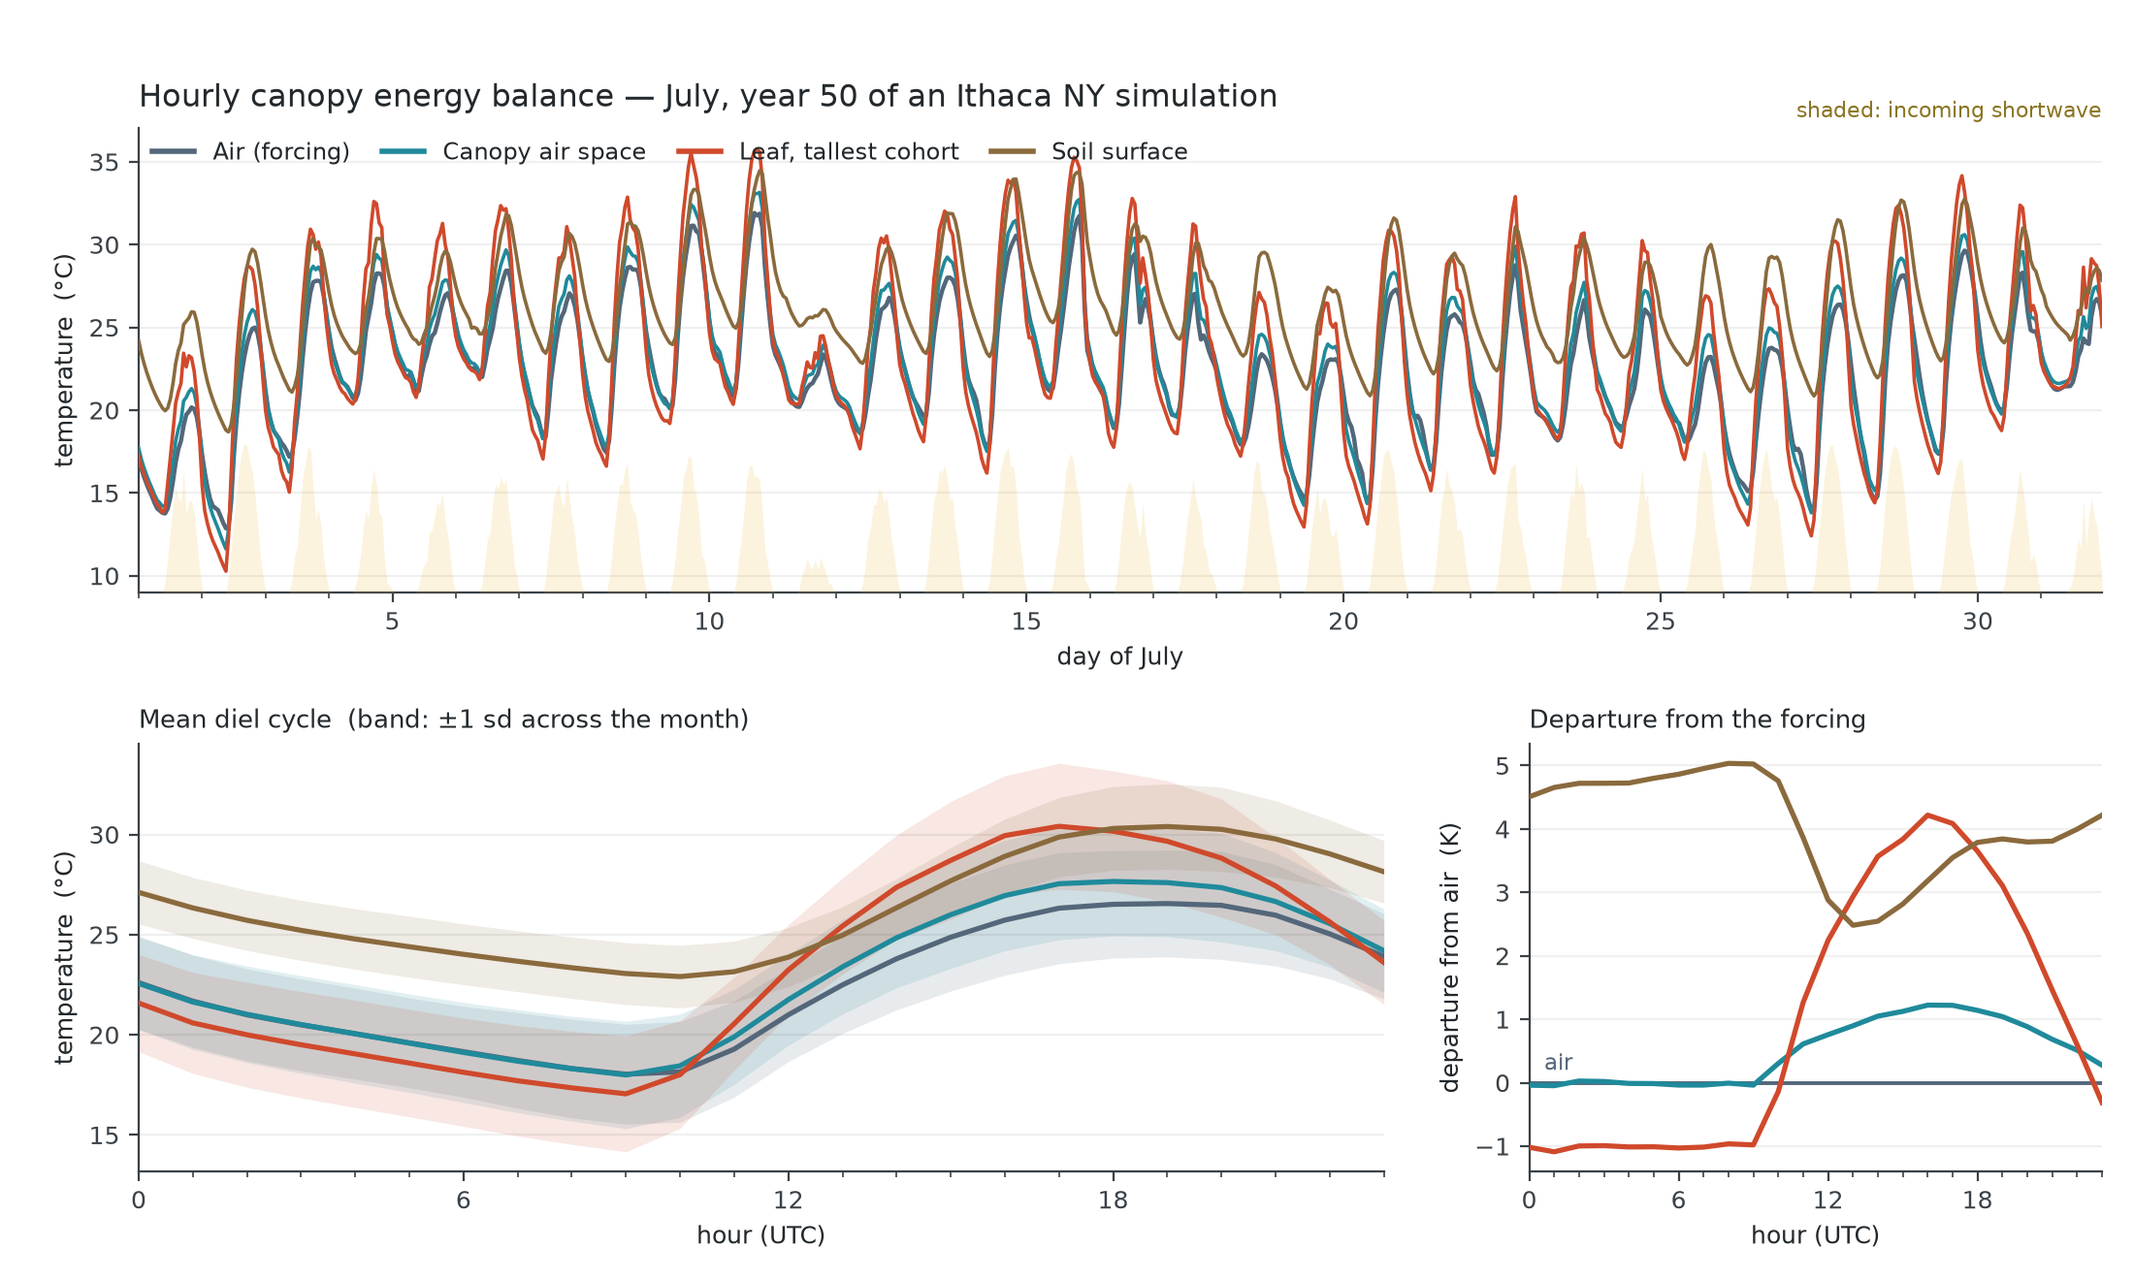
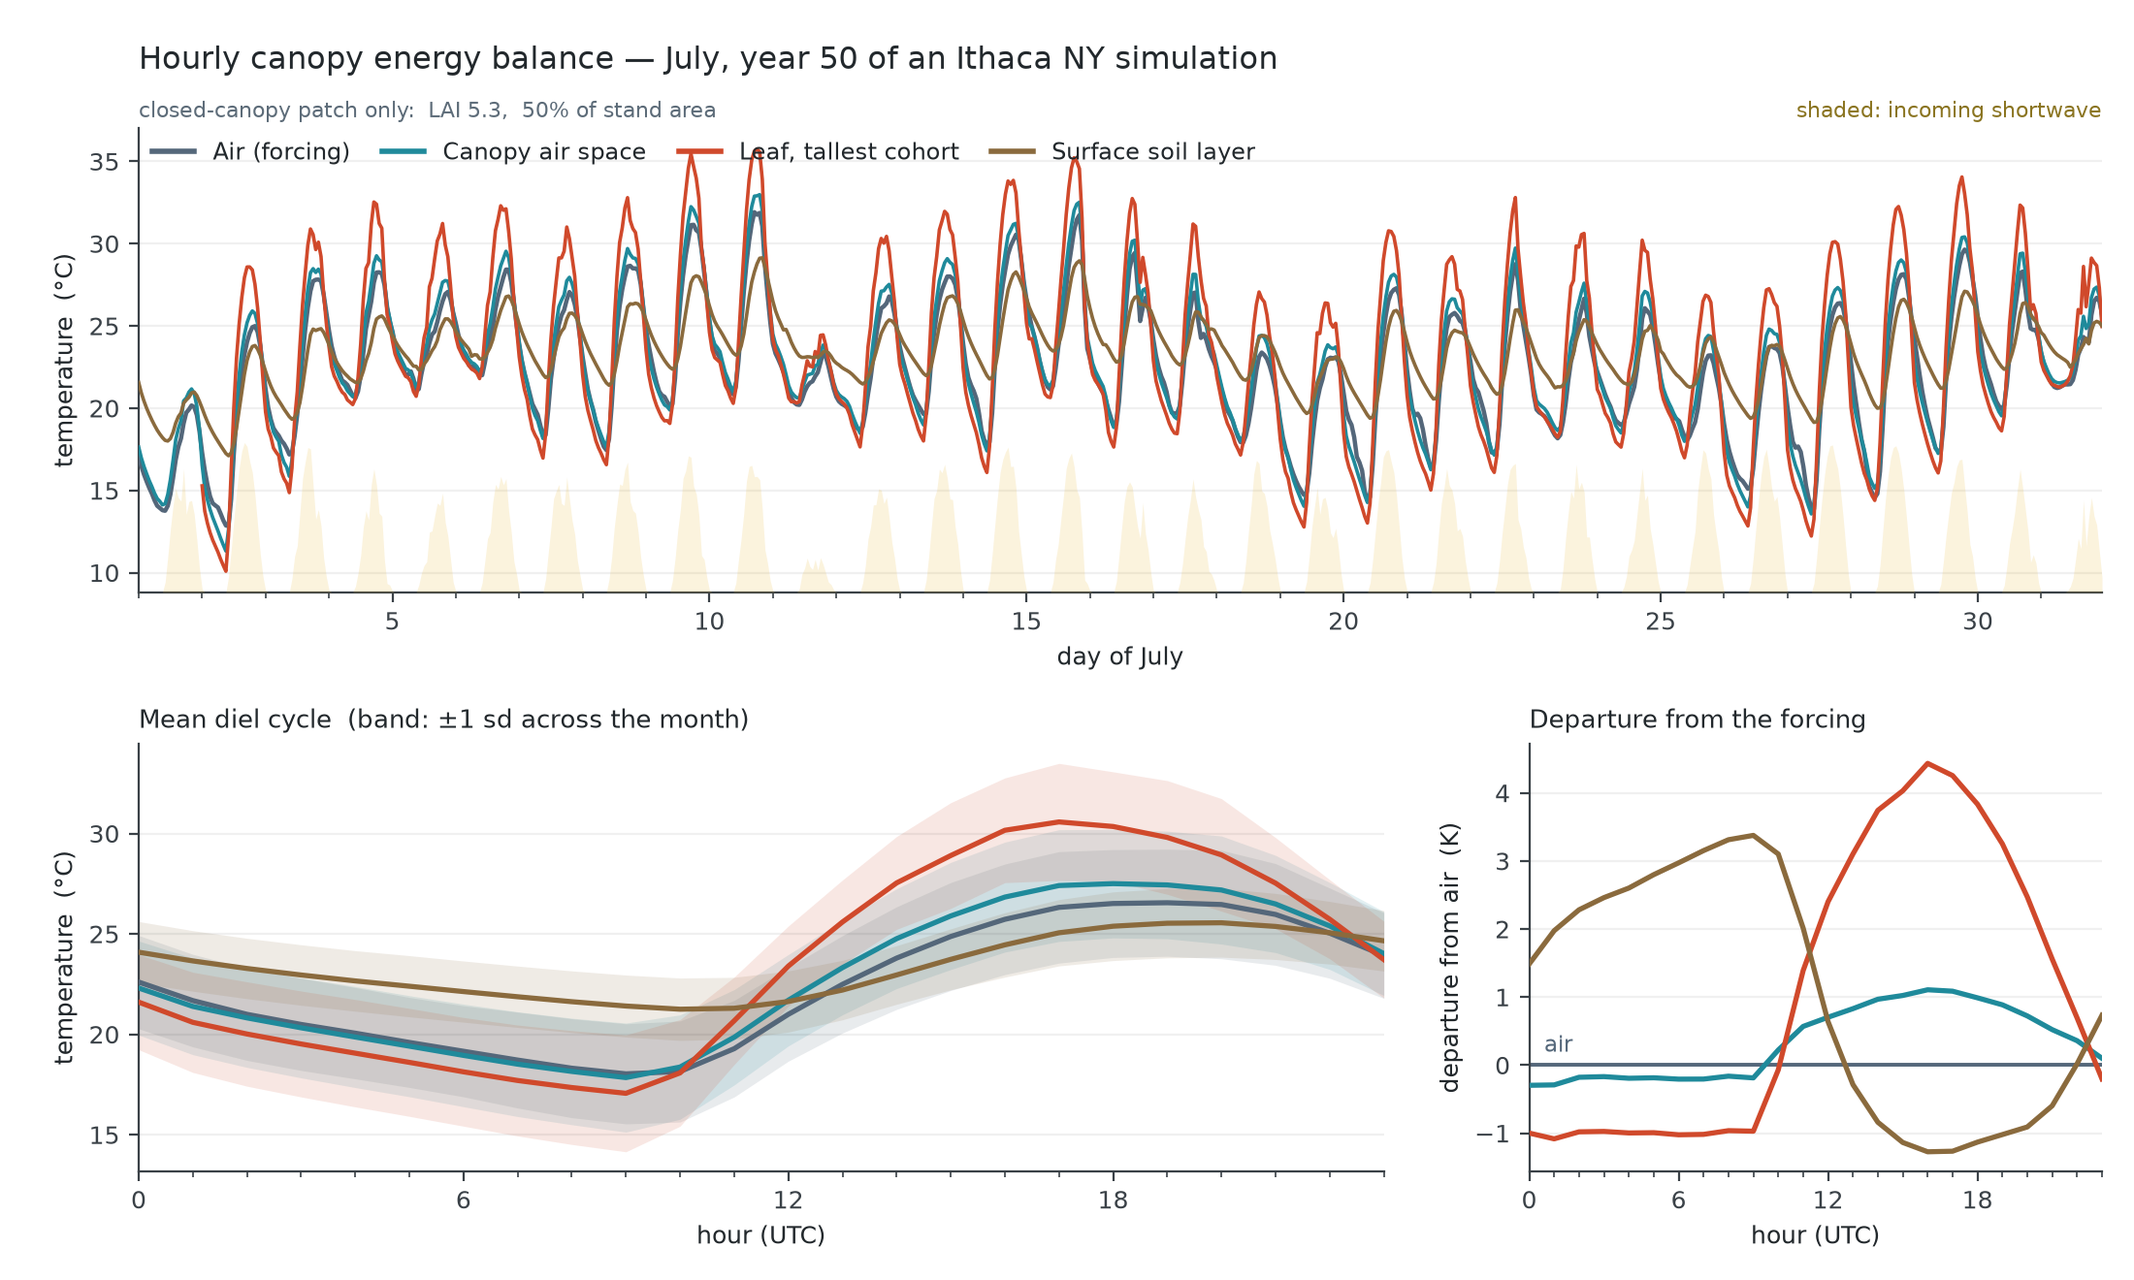
examples(biophysics): plot the closed-canopy patch, not a site mean across a gap
The temperature figure read site-mean FAST-tier scalars. This stand carries a
disturbance gap: patch LAI spans 0.64 to 5.36, and the gap -- 21% of the area,
passing ~70% of incident shortwave straight to the ground -- behaves like bare
soil and runs more than 10 K above air at midday. It supplies about 70% of the
site-mean soil warm anomaly on its own, so the site-mean curve described no part
of the forest: it was an average of a shaded floor and a sunlit clearing.

The figure now selects the patch with the highest July-mean LAI (here LAI 5.34,
49.7% of area) and plots only that. Under a closed canopy the surface soil layer
behaves as it should -- it sits near the DAILY MEAN air temperature, 1.27 K below
air by day and 3.38 K above it at night, with a 4.30 K diurnal swing against the
air's 8.52 K. That signal was invisible in the site mean.

Per-patch sub-daily temperatures come from the opt-in [fast].fast_probe CSV: the
FAST netCDF tier is staged as a site mean, and the probe is the only per-patch
sub-daily record. It is written into out/ with the netCDF and needs n_threads = 1.
The daily tier is enabled to carry lai_patch (the selector) and
cohort_offset/cohort_count, which let the leaf curve stay "tallest cohort in THIS
patch" rather than silently becoming the tallest in the stand. The probe's own
leaf_temp column is an unweighted cohort mean and is deliberately not used.

The soil series is relabelled "Surface soil layer" throughout, from "Soil
[…]

diff --git a/examples/example_biophysics/plot_biophysics.py b/examples/example_biophysics/plot_biophysics.py
@@ -1,20 +1,33 @@
 #!/usr/bin/env python3
-"""Highlight figure for MEDS' fast (sub-daily) biophysics.
+"""Highlight figure for MEDS' fast (sub-daily) biophysics, for ONE closed-canopy patch.
 
-Reads the hourly FAST-tier output written by ``meds_config_july.toml`` and plots the four
-temperatures that define the canopy energy balance, over one July at 1 h resolution:
+Plots the four temperatures that define the canopy energy balance over one July at 1 h
+resolution:
 
-  * air            -- above-canopy air temperature, straight from the met forcing (the boundary
-                      condition; every other curve is something MEDS solved for)
-  * canopy air     -- the prognostic canopy-air-space (CAS) temperature
-  * leaf (tallest) -- leaf temperature of the tallest cohort, i.e. the sunlit upper canopy
-  * soil surface   -- top soil-layer temperature
+  * air                 -- above-canopy air temperature, straight from the met forcing (the
+                           boundary condition; every other curve is something MEDS solved for)
+  * canopy air          -- the prognostic canopy-air-space (CAS) temperature
+  * leaf (tallest)      -- leaf temperature of the tallest cohort, i.e. the sunlit upper canopy
+  * surface soil layer  -- temperature of the TOP SOIL LAYER (node at ~1.8 cm, 0-4 cm thick).
+                           This is a soil temperature, not a skin or litter temperature.
+
+ONE PATCH, NOT THE SITE MEAN. The stand carries a disturbance gap alongside its closed canopy --
+patch LAI here spans 0.6 to 5.4 -- and a site mean across that is an average of a shaded forest
+floor and a sunlit clearing, which is not a state any part of the forest is in. The gap alone
+contributes ~70% of the site-mean soil warm anomaly from ~20% of the area. So the figure selects
+the patch with the highest leaf area index and plots only that, which is the case the eye is
+being invited to read.
+
+Per-patch sub-daily temperatures come from the opt-in ``[fast].fast_probe`` CSV, because the FAST
+netCDF tier is staged as a site mean. The daily tier supplies ``lai_patch`` (which patch to pick)
+and ``cohort_offset``/``cohort_count`` (which cohorts are in it, for the leaf curve).
 
 The point of the figure is that the three solved temperatures separate from the forcing in
 *different* directions and with *different* phase: sunlit leaves run above air by day and below it
 at night (radiative coupling plus transpirational cooling), the canopy air space sits between leaf
-and soil, and the soil surface is damped and lagged by its heat capacity. Reproducing that
-structure from a met file is the whole job of the fast loop.
+and soil, and the surface soil layer is damped and lagged by its heat capacity -- under a closed
+canopy it tracks the DAILY MEAN air temperature, running below air by day and above it at night.
+Reproducing that structure from a met file is the whole job of the fast loop.
 
 Usage
 -----
@@ -47,6 +60,8 @@ from matplotlib.ticker import MultipleLocator
 
 HERE = os.path.dirname(os.path.abspath(__file__))
 PATTERN = os.path.join(HERE, "out", "july-F-2074*.nc")
+DAILY = os.path.join(HERE, "out", "july-D-207407.nc")
+PROBE = os.path.join(HERE, "out", "fast_probe.csv")
 OUTPNG = os.path.join(HERE, "biophysics_july.png")
 
 # One colour per store, chosen so the three solved temperatures read as a family against the
@@ -58,48 +73,93 @@ C_SOIL = "#8a6a3d"
 C_SW = "#e8b52f"
 
 
-def load(pattern: str) -> dict[str, np.ndarray]:
-    """Concatenate the per-day FAST files into flat hourly arrays."""
+def pick_patch(daily: str):
+    """Return (patch_index, mean LAI, mean area, per-day cohort slice) for the closed-canopy patch.
+
+    Selected on mean July leaf area index, not on area: the question the figure answers is what a
+    SHADED forest floor does, so the most-shaded patch is the right one even if it is not the
+    largest. Cohort ranges are read per day because fusion and fission can move them within the
+    month; `cohort_offset` is 1-based (Fortran), so it is shifted here once and only here.
+    """
+    if not os.path.exists(daily):
+        sys.exit(f"error: {daily} not found -- the daily tier must be on "
+                 "([output.daily] enabled = true) so the patch can be identified")
+    with nc.Dataset(daily) as d:
+        lai = np.ma.filled(np.asarray(d.variables["lai_patch"][:]), np.nan)
+        area = np.ma.filled(np.asarray(d.variables["area_patch"][:]), np.nan)
+        off = np.ma.filled(np.asarray(d.variables["cohort_offset"][:]), 0).astype(int)
+        cnt = np.ma.filled(np.asarray(d.variables["cohort_count"][:]), 0).astype(int)
+        day = np.asarray(d.variables["day"][:]).ravel().astype(int)
+    lai = np.where(lai > 1e30, np.nan, lai)
+    area = np.where(area > 1e30, np.nan, area)
+    idx = int(np.nanargmax(np.nanmean(lai, axis=0)))
+    rng = {int(day[t]): (off[t, idx] - 1, off[t, idx] - 1 + cnt[t, idx]) for t in range(lai.shape[0])}
+    return idx, float(np.nanmean(lai[:, idx])), float(np.nanmean(area[:, idx])), rng
+
+
+def load(pattern: str, patch: int, coh_range: dict) -> dict[str, np.ndarray]:
+    """Hourly series for ONE patch: air and shortwave from the FAST tier, canopy air and surface
+    soil from the per-patch probe, leaf from the FAST cohort slab restricted to this patch.
+
+    The FAST tier's scalars are site means and are deliberately NOT used for the solved
+    temperatures. Its per-cohort slabs are written by GLOBAL cohort slot, which is what makes the
+    daily `cohort_offset`/`cohort_count` usable to pick this patch's cohorts out of them.
+    """
     files = sorted(glob.glob(pattern))
     if not files:
-        sys.exit(
-            f"error: no output found matching {pattern}\n"
-            "  Run the model first:  ./run_example.sh"
-        )
+        sys.exit(f"error: no output found matching {pattern}\n"
+                 "  Run the model first:  python run_example.py")
 
-    cols: dict[str, list] = {k: [] for k in
-                             ("air", "cas", "leaf", "soil", "sw", "day", "hour")}
+    cols: dict[str, list] = {k: [] for k in ("air", "leaf", "sw", "day", "hour")}
     for path in files:
         with nc.Dataset(path) as d:
             v = d.variables
             get = lambda name: np.asarray(v[name][:]).ravel()
-
             cols["air"] += list(get("air_temp_fast"))
-            cols["cas"] += list(get("cas_temp_fast"))
-            cols["soil"] += list(get("soil_temp_top_fast"))
             cols["sw"] += list(get("sw_in_fast"))
             cols["hour"] += list(get("hour"))
             cols["day"] += list(get("day"))
 
-            # Leaf temperature of the TALLEST cohort, resolved per record: cohort composition
-            # changes as the run proceeds, so "cohort 1" is not a stable identity. Slots beyond
-            # n_cohort hold fill values, hence the explicit mask rather than a bare argmax.
-            leaf = np.asarray(v["leaf_temp_cohort_fast"][:])
-            height = np.asarray(v["height_cohort_fast"][:])
-            ncoh = np.asarray(v["n_cohort"][:]).ravel().astype(int)
-            leaf = np.ma.filled(leaf, np.nan)
-            height = np.ma.filled(height, np.nan)
+            # Leaf temperature of the tallest cohort IN THIS PATCH, resolved per record. Cohort
+            # composition changes as the run proceeds, so "cohort 1" is not a stable identity, and
+            # slots outside the patch (or beyond n_cohort) hold other patches' trees or fill
+            # values -- hence the explicit per-day slice plus a finite mask, not a bare argmax.
+            leaf = np.ma.filled(np.asarray(v["leaf_temp_cohort_fast"][:]), np.nan)
+            height = np.ma.filled(np.asarray(v["height_cohort_fast"][:]), np.nan)
+            days = get("day").astype(int)
             for t in range(leaf.shape[0]):
-                n = max(int(ncoh[t]), 0)
-                h = height[t, :n]
+                lo, hi = coh_range.get(int(days[t]), (0, 0))
+                hi = min(hi, leaf.shape[1])
+                h = height[t, lo:hi]
                 valid = np.isfinite(h)
-                if n == 0 or not valid.any():
+                if hi <= lo or not valid.any():
                     cols["leaf"].append(np.nan)
                 else:
-                    idx = np.arange(n)[valid][np.nanargmax(h[valid])]
-                    cols["leaf"].append(float(leaf[t, idx]))
+                    j = np.arange(lo, hi)[valid][np.nanargmax(h[valid])]
+                    cols["leaf"].append(float(leaf[t, j]))
 
     out = {k: np.asarray(vals, dtype=float) for k, vals in cols.items()}
+
+    #----- Canopy air and surface soil come from the probe, which is the only per-patch sub-daily
+    #      record. It samples every fast sub-step, so it is averaged onto the FAST tier's hourly
+    #      records rather than subsampled -- those records are themselves 4-sub-step means, and
+    #      mixing an instantaneous series with an averaged one would fake a phase difference.
+    if not os.path.exists(PROBE):
+        sys.exit(f"error: {PROBE} not found -- set [fast].fast_probe = true "
+                 "(it is the only per-patch sub-daily output)")
+    raw = np.genfromtxt(PROBE, delimiter=",", names=True, dtype=None, encoding="utf-8")
+    sel = raw["patch"] == patch + 1                      # probe patch ids are 1-based
+    stamp = raw["datetime"][sel]
+    key = np.array([f"{t[8:10]}{t[11:13]}" for t in stamp])   # DDHH
+    for name, col in (("cas", "cas_temp_K"), ("soil", "soil_temp_top_K")):
+        vals = raw[col][sel]
+        table = {}
+        for k, x in zip(key, vals):
+            table.setdefault(k, []).append(x)
+        table = {k: float(np.mean(x)) for k, x in table.items()}
+        out[name] = np.array([table.get(f"{int(dd):02d}{int(hh):02d}", np.nan)
+                              for dd, hh in zip(out["day"], out["hour"])])
+
     out["t"] = out["day"] + out["hour"] / 24.0  # day-of-month, fractional
     return out
 
@@ -127,16 +187,18 @@ def main() -> None:
     ap.add_argument("--dpi", type=int, default=200, help="output resolution (default 200)")
     args = ap.parse_args()
 
-    d = load(PATTERN)
+    patch, lai, area, coh_range = pick_patch(DAILY)
+    d = load(PATTERN, patch, coh_range)
     n_hours = d["t"].size
     print(f"loaded {n_hours} hourly records "
           f"(day {d['day'].min():.0f}-{d['day'].max():.0f} of July 2074)")
+    print(f"closed-canopy patch: index {patch}, LAI {lai:.2f}, area fraction {area:.3f}")
 
     series = [
         ("Air (forcing)", d["air"], C_AIR, 1.6, "-"),
         ("Canopy air space", d["cas"], C_CAS, 1.3, "-"),
         ("Leaf, tallest cohort", d["leaf"], C_LEAF, 1.3, "-"),
-        ("Soil surface", d["soil"], C_SOIL, 1.3, "-"),
+        ("Surface soil layer", d["soil"], C_SOIL, 1.3, "-"),
     ]
 
     plt.rcParams.update({
@@ -176,8 +238,12 @@ def main() -> None:
     ax_ts.xaxis.set_major_locator(MultipleLocator(5))
     ax_ts.xaxis.set_minor_locator(MultipleLocator(1))
     ax_ts.grid(axis="y", color="#000000", alpha=0.06, lw=0.8)
+    #----- Title on its own line, with the patch caveat and the shortwave note sharing the line
+    #      below it. The caveat is not decoration: the figure is one patch, not the stand.
     ax_ts.set_title("Hourly canopy energy balance — July, year 50 of an Ithaca NY simulation",
-                    loc="left", fontsize=11.5, pad=8)
+                    loc="left", fontsize=11.5, pad=22)
+    ax_ts.text(0.0, 1.012, f"closed-canopy patch only:  LAI {lai:.1f},  {area * 100:.0f}% of stand area",
+               transform=ax_ts.transAxes, ha="left", va="bottom", fontsize=8.0, color="#5c6b78")
     leg = ax_ts.legend(loc="upper left", ncol=4, frameon=False, fontsize=8.6,
                        borderaxespad=0.2, columnspacing=1.4, handlelength=1.8)
     for line in leg.get_lines():
@@ -235,6 +301,13 @@ def main() -> None:
     lead = np.nanmax(diel(d['leaf'], d['hour'])[0] - air_mean)
     drop = np.nanmin(diel(d['leaf'], d['hour'])[0] - air_mean)
     print(f"\n  tallest-cohort leaf vs air: up to {lead:+.2f} K by day, {drop:+.2f} K at night")
+    #----- The surface soil layer's signature under a closed canopy: it sits at the DAILY MEAN air
+    #      temperature, below air by day and above it at night. Printed because it is the claim a
+    #      reader is most likely to want to check against their own site.
+    soil_mean, _ = diel(d["soil"], d["hour"])
+    dev = soil_mean - air_mean
+    print(f"  surface soil layer vs air:  {np.nanmin(dev):+.2f} K by day, {np.nanmax(dev):+.2f} K at night, "
+          f"{np.nanmean(dev):+.2f} K on the daily mean")
 
     if args.show:
         plt.show()

diff --git a/examples/example_biophysics/README.md b/examples/example_biophysics/README.md
@@ -12,15 +12,34 @@ Four temperatures over one July at 1 h resolution. Only the first is an input:
 | **Air** | above-canopy air temperature, straight from the ERA5-Land forcing | *boundary condition* |
 | **Canopy air space** | the prognostic CAS temperature | *solved* |
 | **Leaf, tallest cohort** | leaf temperature of the tallest cohort — the sunlit upper canopy | *solved* |
-| **Soil surface** | top soil-layer temperature | *solved* |
+| **Surface soil layer** | temperature of the top soil layer — node at ~1.8 cm, 0–4 cm thick | *solved* |
+
+**One patch, not the stand.** The figure plots only the patch with the highest leaf area index
+(LAI 5.3, half the stand area), because a site mean here would be misleading rather than merely
+coarse. This stand carries a disturbance gap: patch LAI spans 0.6 to 5.4, and the gap — a fifth of
+the area, taking roughly 70% of incident shortwave straight to the ground — behaves like bare soil
+and runs more than 10 K above air at midday. Averaging it with a shaded forest floor produces a
+curve describing no part of the forest. Selecting the closed patch is what lets the figure be read
+as "what happens under a canopy".
+
+Note the middle curve is a **soil** temperature, not a skin or litter temperature: MEDS has no
+surface organic horizon, so the top soil layer is the surface the energy balance closes on.
 
 The three solved curves separate from the forcing in different directions and with different
 phase. Sunlit leaves run above air by day and below it at night — shortwave absorption and
 longwave loss against a finite boundary-layer conductance, offset by transpirational cooling. The
 canopy air space sits between leaf and soil, ventilated toward the free atmosphere at a rate the
-aerodynamic scheme sets. The soil surface is damped and lagged by its heat capacity. Reproducing
-that structure from nothing but a met file is the fast loop's whole job, and the third panel —
-each store's departure from the driving air temperature — is where it is easiest to read.
+aerodynamic scheme sets. The surface soil layer is damped and lagged by its heat capacity: under a
+closed canopy it sits near the **daily mean** air temperature, running 1.3 K *below* air by day and
+3.4 K above it at night, with a 4.3 K diurnal swing against the air's 8.5 K. Reproducing that
+structure from nothing but a met file is the fast loop's whole job, and the third panel — each
+store's departure from the driving air temperature — is where it is easiest to read.
+
+Per-patch sub-daily temperatures come from the opt-in `[fast].fast_probe` CSV, since the FAST
+netCDF tier is staged as a site mean; the daily tier supplies `lai_patch` (which patch to select)
+and `cohort_offset`/`cohort_count` (which cohorts are in it). The **carbon and soil figures below
+remain site means** — per-patch sub-daily carbon fluxes and soil profiles are not currently
+written by any stream.
 
 
 ## The carbon cycle, from the same hourly files
@@ -194,11 +213,13 @@ Stage 2 used to drop to 150 s, on the argument that a diel diagnostic needs sub-
 a long step smears the energy partitioning. **Measured over this exact July, that is not so.**
 150 s against 900 s:
 
+(site means — this table is a `dt_fast` convergence check, not the single-patch figure above.)
+
 | | 150 s | 900 s |
 |---|---|---|
 | canopy air, mean / diel amplitude | 22.69 °C / 9.34 K | 22.67 / 9.37 |
 | leaf, mean / diel amplitude | 23.32 °C / 12.92 K | 23.31 / 12.91 |
-| soil surface, mean | 23.42 °C | 23.39 |
+| surface soil layer, mean (site) | 23.42 °C | 23.39 |
 | leaf − air, day / night | +4.04 K / −0.87 K | +4.04 / −0.90 |
 | `dmax_psi_leaf`, monthly mean | −0.2951 MPa | −0.2954 |
 
